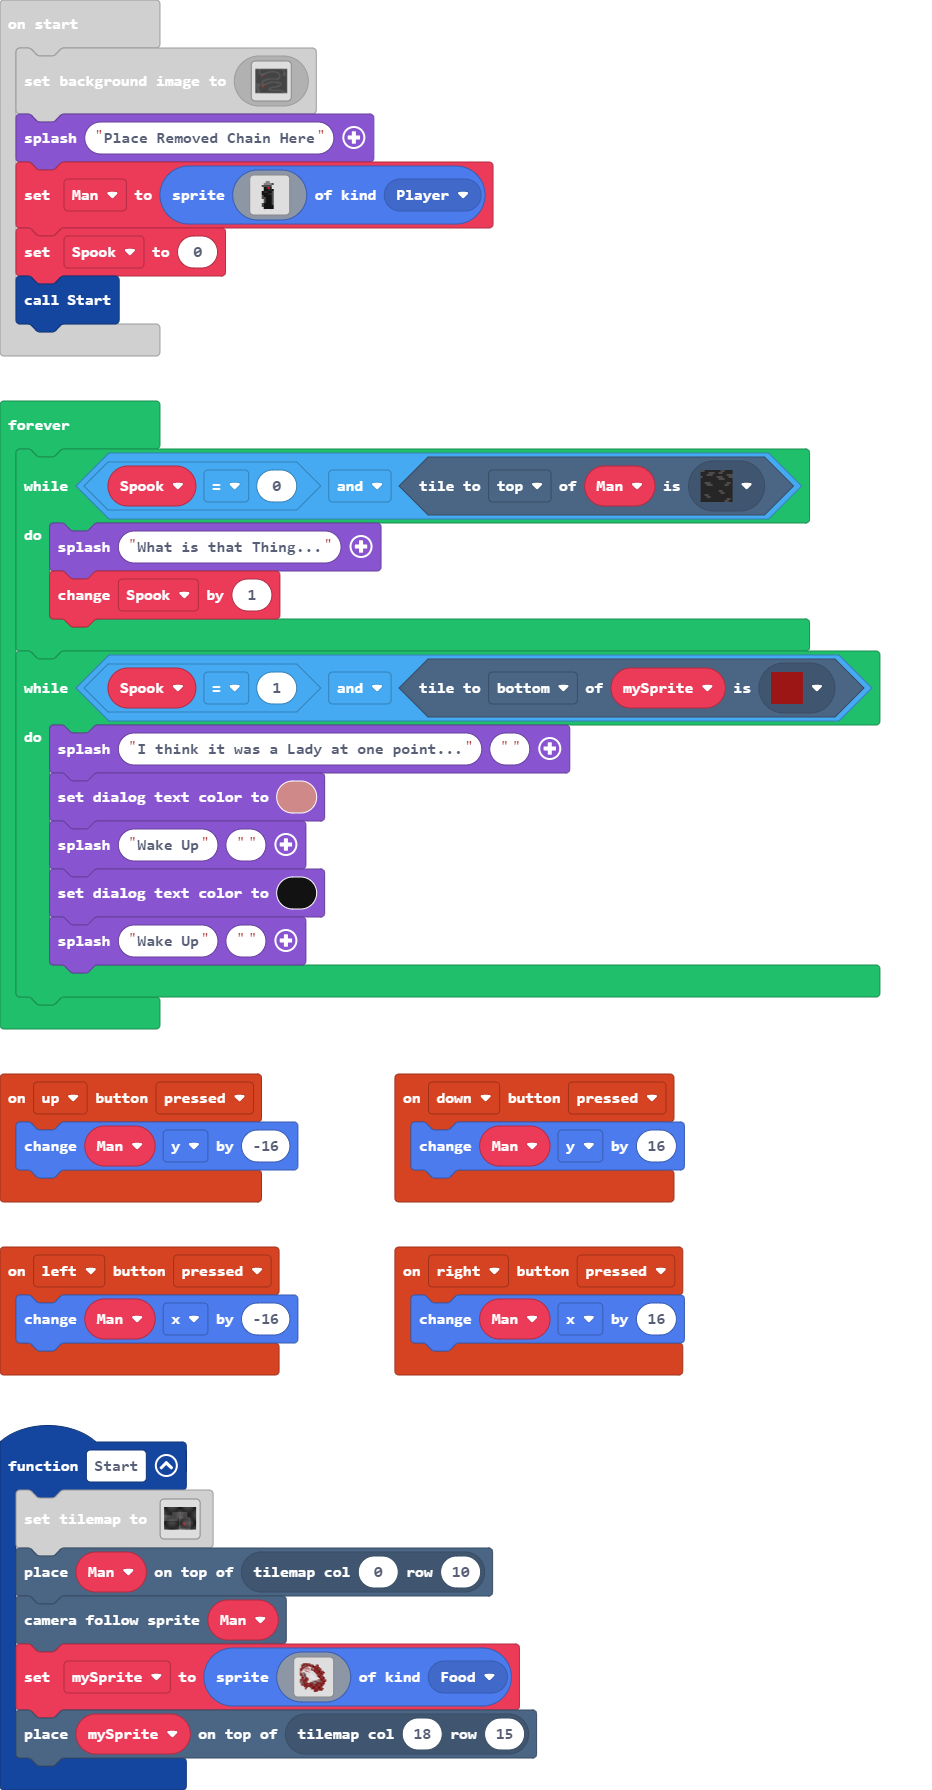
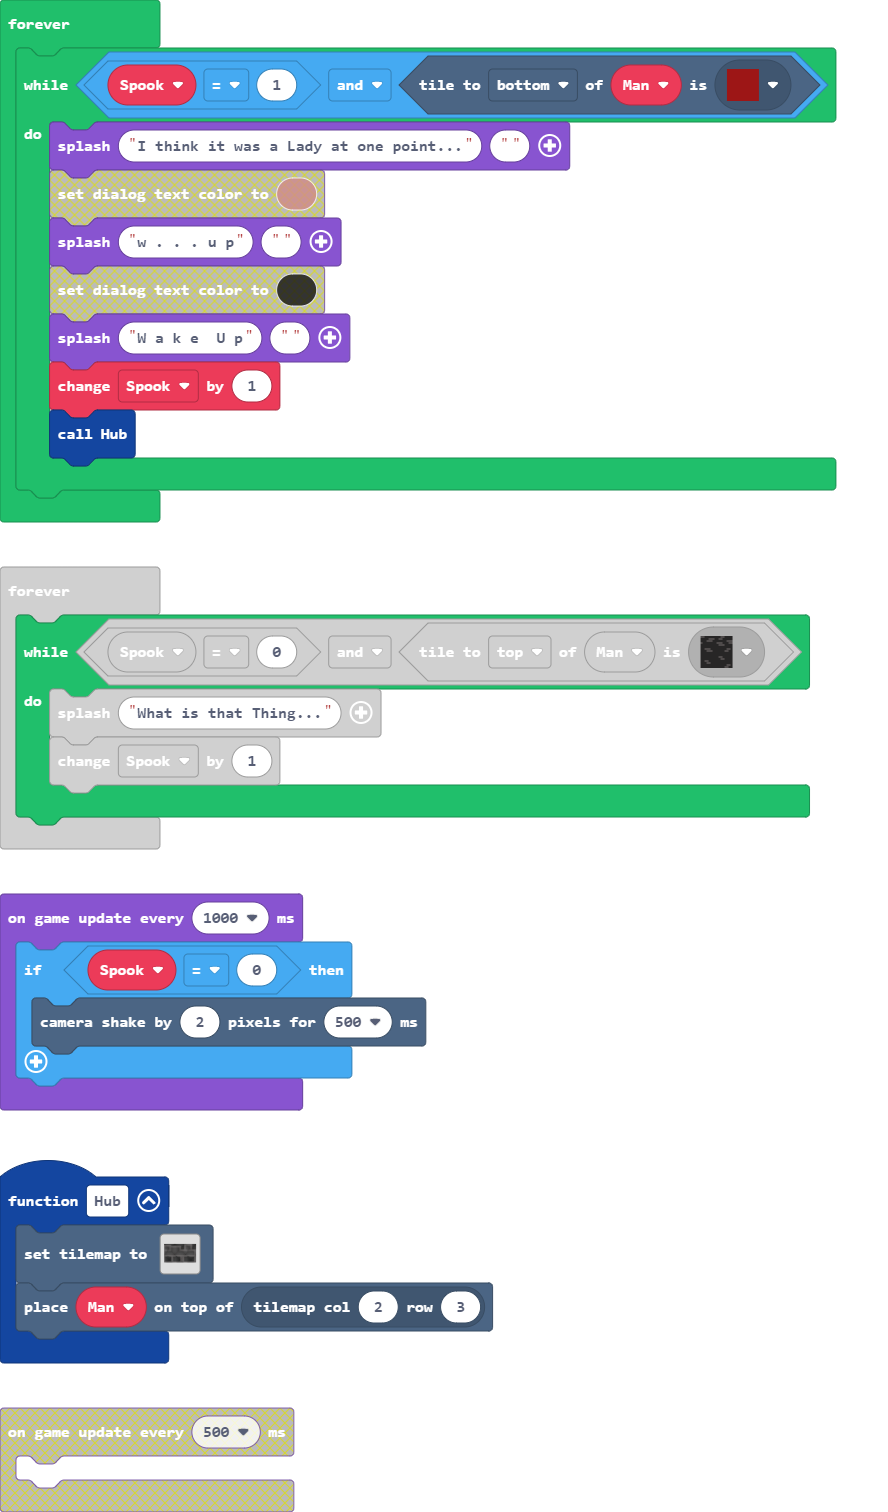
Hub World Made 1/2

diff --git a/tilemap.g.ts b/tilemap.g.ts
@@ -66,6 +66,14 @@ namespace myTiles {
     export const tile31 = image.ofBuffer(hex``);
     //% fixedInstance jres blockIdentity=images._tile
     export const tile32 = image.ofBuffer(hex``);
+    //% fixedInstance jres blockIdentity=images._tile
+    export const tile34 = image.ofBuffer(hex``);
+    //% fixedInstance jres blockIdentity=images._tile
+    export const tile35 = image.ofBuffer(hex``);
+    //% fixedInstance jres blockIdentity=images._tile
+    export const tile36 = image.ofBuffer(hex``);
+    //% fixedInstance jres blockIdentity=images._tile
+    export const tile33 = image.ofBuffer(hex``);
 
     helpers._registerFactory("tilemap", function(name: string) {
         switch(helpers.stringTrim(name)) {
@@ -93,6 +101,29 @@ namespace myTiles {
 ..............2.........2.....
 ..............22222222222.....
 `, [myTiles.transparency16,myTiles.tile1,myTiles.tile6,myTiles.tile17,myTiles.tile2,myTiles.tile3,myTiles.tile4,myTiles.tile5,myTiles.tile7,myTiles.tile8,myTiles.tile9,myTiles.tile10,myTiles.tile11,myTiles.tile12,myTiles.tile13,myTiles.tile14,myTiles.tile15,myTiles.tile16,myTiles.tile18,myTiles.tile19,myTiles.tile20,myTiles.tile21,myTiles.tile22,myTiles.tile23,myTiles.tile24,myTiles.tile25,myTiles.tile26,myTiles.tile27,myTiles.tile28,myTiles.tile29,myTiles.tile30,myTiles.tile31,myTiles.tile32], TileScale.Sixteen);
+            case "level2":
[1 lines of base64/hex data omitted]
+...................................
+...................................
+...................................
+...................................
+...................................
+...................................
+...................................
+...................................
+...................................
+...................................
+...................................
+...................................
+...................................
+...................................
+...................................
+...................................
+...................................
+...................................
+...................................
+...................................
+`, [myTiles.transparency16,myTiles.tile1,myTiles.tile2,myTiles.tile3,myTiles.tile4,myTiles.tile5,myTiles.tile6,myTiles.tile8,myTiles.tile9,myTiles.tile10,myTiles.tile11,myTiles.tile12,myTiles.tile13,myTiles.tile14,myTiles.tile15,myTiles.tile16,myTiles.tile32,myTiles.tile34,myTiles.tile35,myTiles.tile18,myTiles.tile33,myTiles.tile36], TileScale.Sixteen);
         }
         return null;
     })
@@ -164,6 +195,14 @@ namespace myTiles {
             case "tile31":return tile31;
             case "myTile30":
             case "tile32":return tile32;
+            case "myTile32":
+            case "tile34":return tile34;
+            case "myTile33":
+            case "tile35":return tile35;
+            case "myTile34":
+            case "tile36":return tile36;
+            case "myTile31":
+            case "tile33":return tile33;
         }
         return null;
     })

diff --git a/main.ts b/main.ts
@@ -1,6 +1,10 @@
 controller.up.onEvent(ControllerButtonEvent.Pressed, function () {
     Man.y += -16
 })
+function Hub () {
+    tiles.setTilemap(tilemap`level2`)
+    tiles.placeOnTile(Man, tiles.getTileLocation(2, 3))
+}
 function Start () {
     tiles.setTilemap(tilemap`level1`)
     tiles.placeOnTile(Man, tiles.getTileLocation(0, 10))
@@ -145,19 +149,23 @@ game.splash("Place Removed Chain Here")
 Man = sprites.create(assets.image`myImage0`, SpriteKind.Player)
 let Spook = 0
 Start()
+game.onUpdateInterval(1000, function () {
+    if (Spook == 0) {
+        scene.cameraShake(2, 500)
+    }
+})
+forever(function () {
+    while (Spook == 1 && Man.tileKindAt(TileDirection.Bottom, assets.tile`myTile21`)) {
+        game.splash("I think it was a Lady at one point...")
+        game.splash("w . . . u p")
+        game.splash("W a k e  U p")
+        Spook += 1
+        Hub()
+    }
+})
 forever(function () {
     while (Spook == 0 && Man.tileKindAt(TileDirection.Top, assets.tile`myTile17`)) {
         game.splash("What is that Thing...")
         Spook += 1
     }
-    while (Spook == 1 && mySprite.tileKindAt(TileDirection.Bottom, assets.tile`myTile21`)) {
-        game.splash("I think it was a Lady at one point...")
-        game.setDialogTextColor(15)
-        game.splash("Wake Up")
-        game.setDialogTextColor(10)
-        game.splash("Wake Up")
-    }
-})
-game.onUpdateInterval(500, function () {
-	
 })
